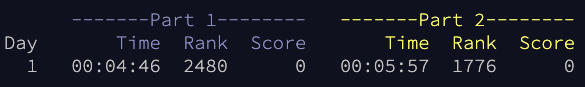
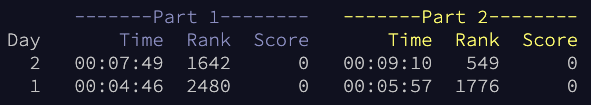
i liked this way to do part1 better

diff --git a/day02/part1.py b/day02/part1.py
@@ -9,34 +9,28 @@ import support
 
 INPUT_TXT = os.path.join(os.path.dirname(__file__), 'input.txt')
 
-def rps(a, b):
-    if a == 'A':
-        if b == 'X':
-            return 1 + 3
-        elif b == 'Y':
-            return 2 + 6
-        elif b == 'Z':
-            return 3 + 0
-    elif a == 'B':
-        if b == 'X':
-            return 1 + 0
-        elif b == 'Y':
-            return 2 + 3
-        elif b == 'Z':
-            return 3 + 6
-    elif a == 'C':
-        if b == 'X':
-            return 1 + 6
-        elif b == 'Y':
-            return 2 + 0
-        elif b == 'Z':
-            return 3 + 3
+def rps_value(v):
+    if v == 'A' or v == 'X':
+        return 1
+    if v == 'B' or v == 'Y':
+        return 2
+    if v == 'C' or v == 'Z':
+        return 3
+
+def eval_rps(opp, you):
+    dif = rps_value(you) - rps_value(opp)
+    if dif == 1 or dif == -2:
+        return 6 + rps_value(you)
+    elif dif == 0:
+        return 3 + rps_value(you)
+    else:
+        return 0 + rps_value(you)
 
 def compute(s: str) -> int:
     n = 0
     l = s.strip().split('\n')
     for game in l:
-        n += rps(*game.split(' '))
+        n += eval_rps(*game.split(' '))
     return n
 
 
